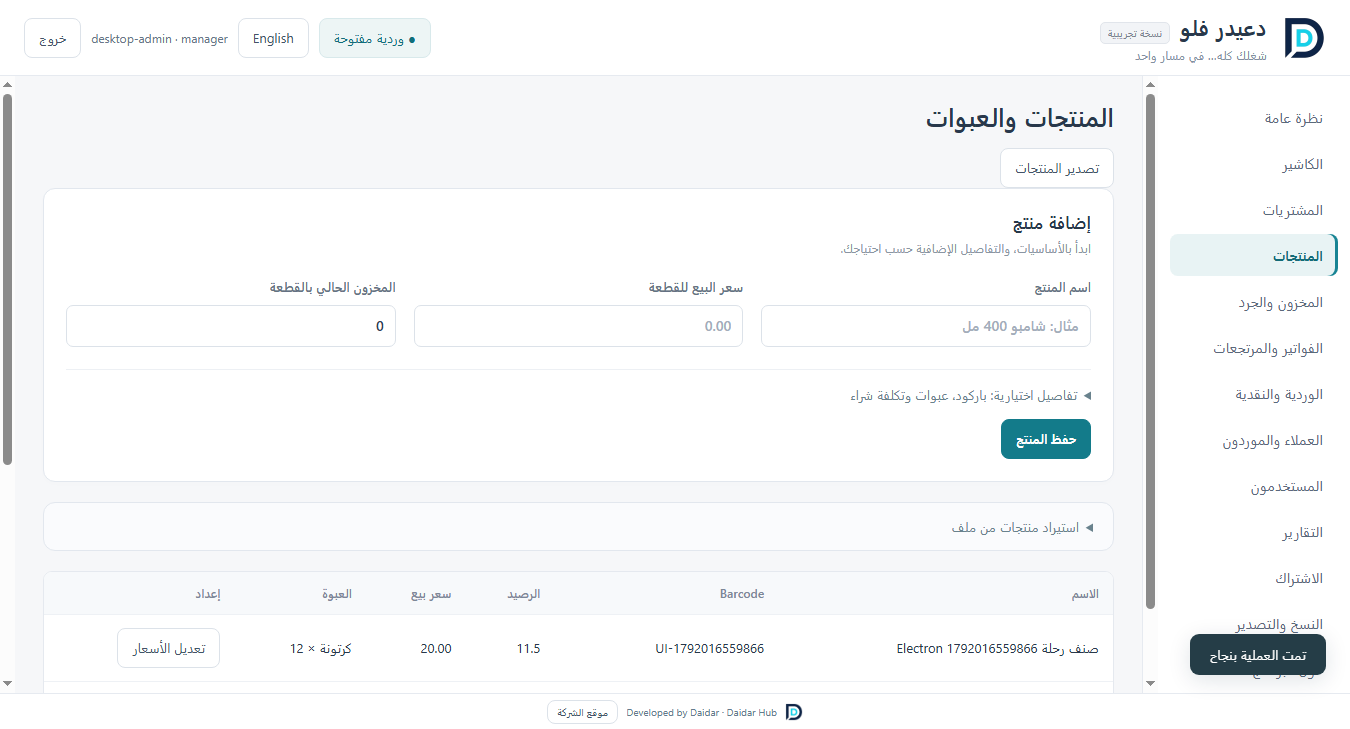
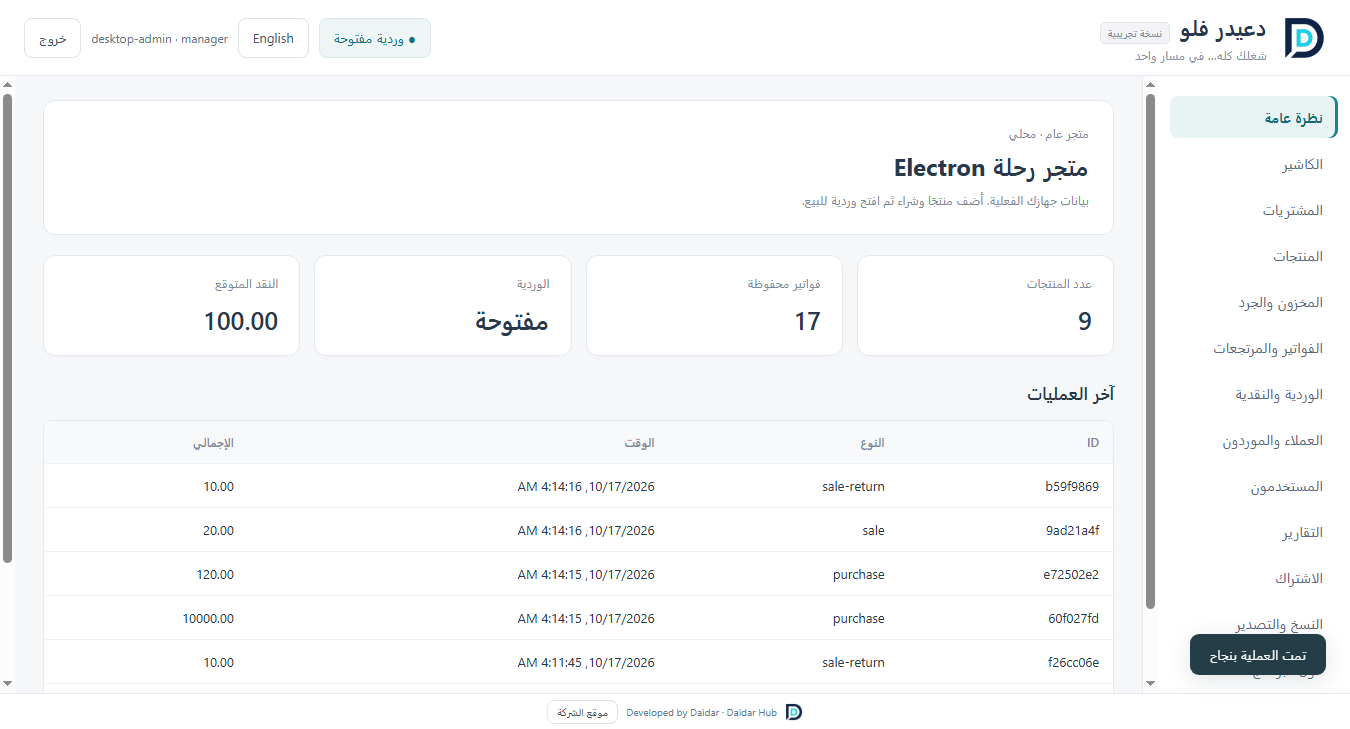
Verify barcode editing without requiring optional product fields

diff --git a/src/ui/pages.tsx b/src/ui/pages.tsx
@@ -104,7 +104,13 @@ export function Products({ data, action, busy, t }: Props) {
                 "text",
                 edit.barcode,
               ],
-              ["category", t("التصنيف", "Category"), "text", edit.category],
+              [
+                "category",
+                t("التصنيف", "Category"),
+                "text",
+                edit.category,
+                false,
+              ],
               ["retail", t("تجزئة", "Retail"), "number", money(edit.retail)],
               [
                 "wholesale",
